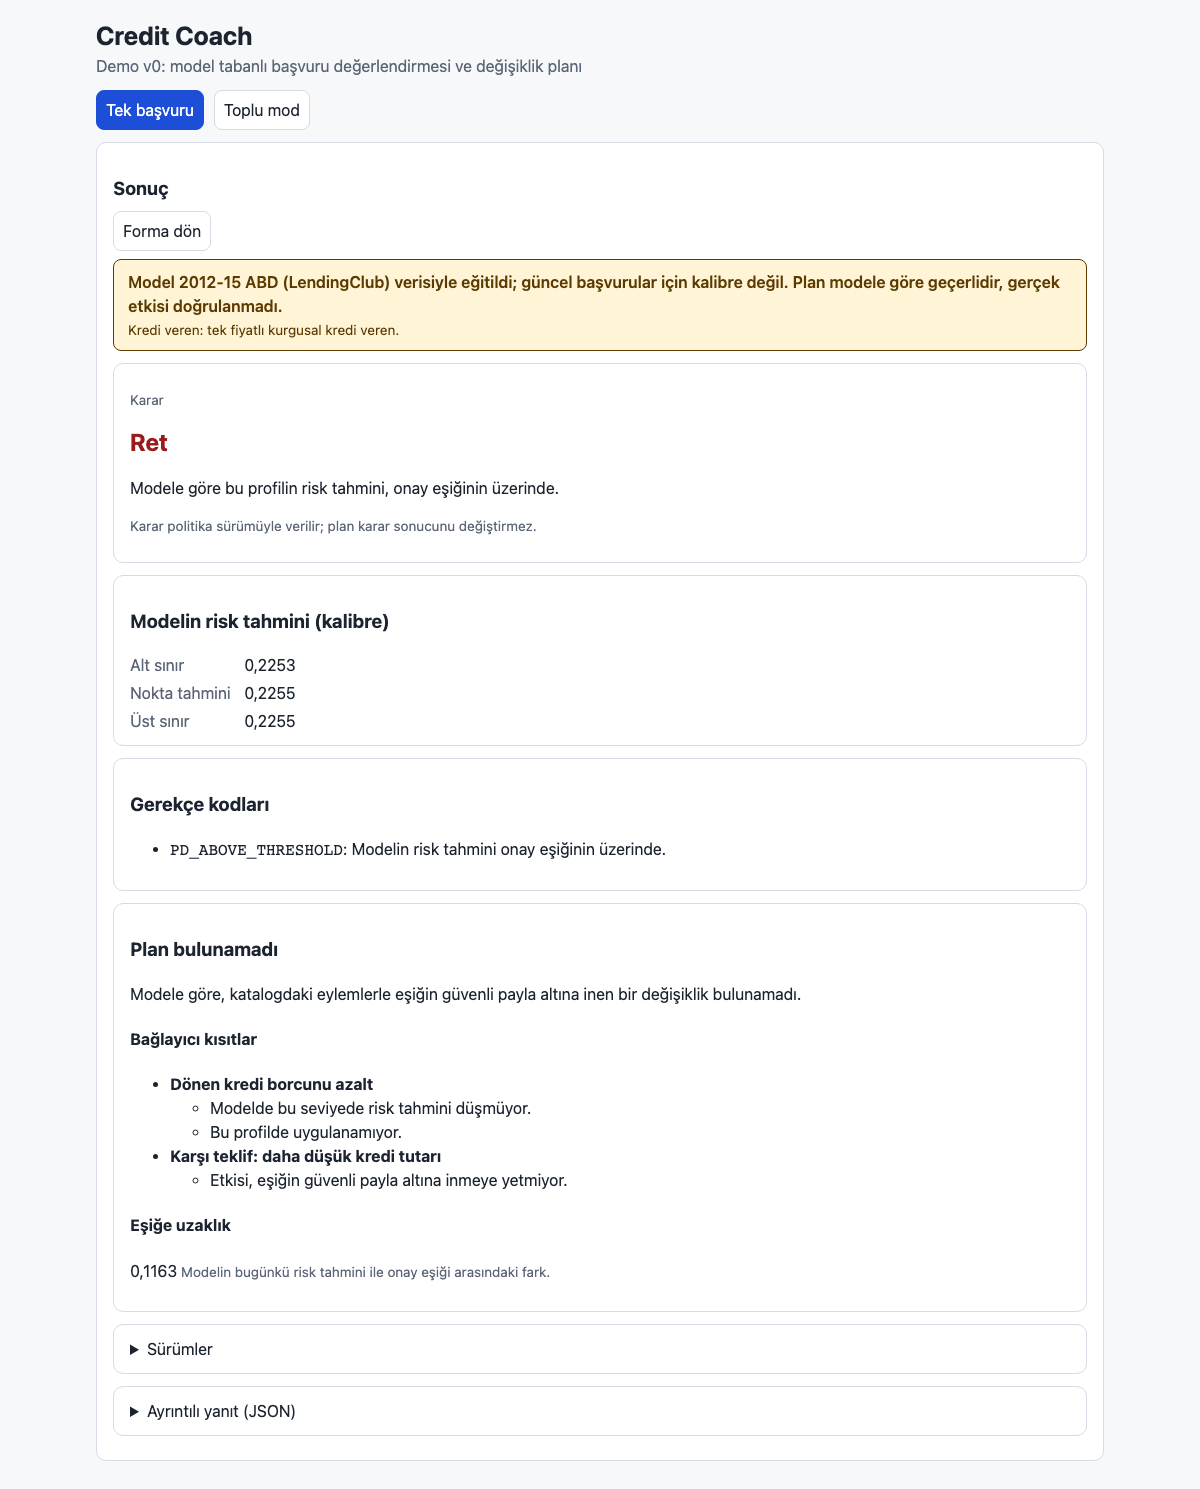
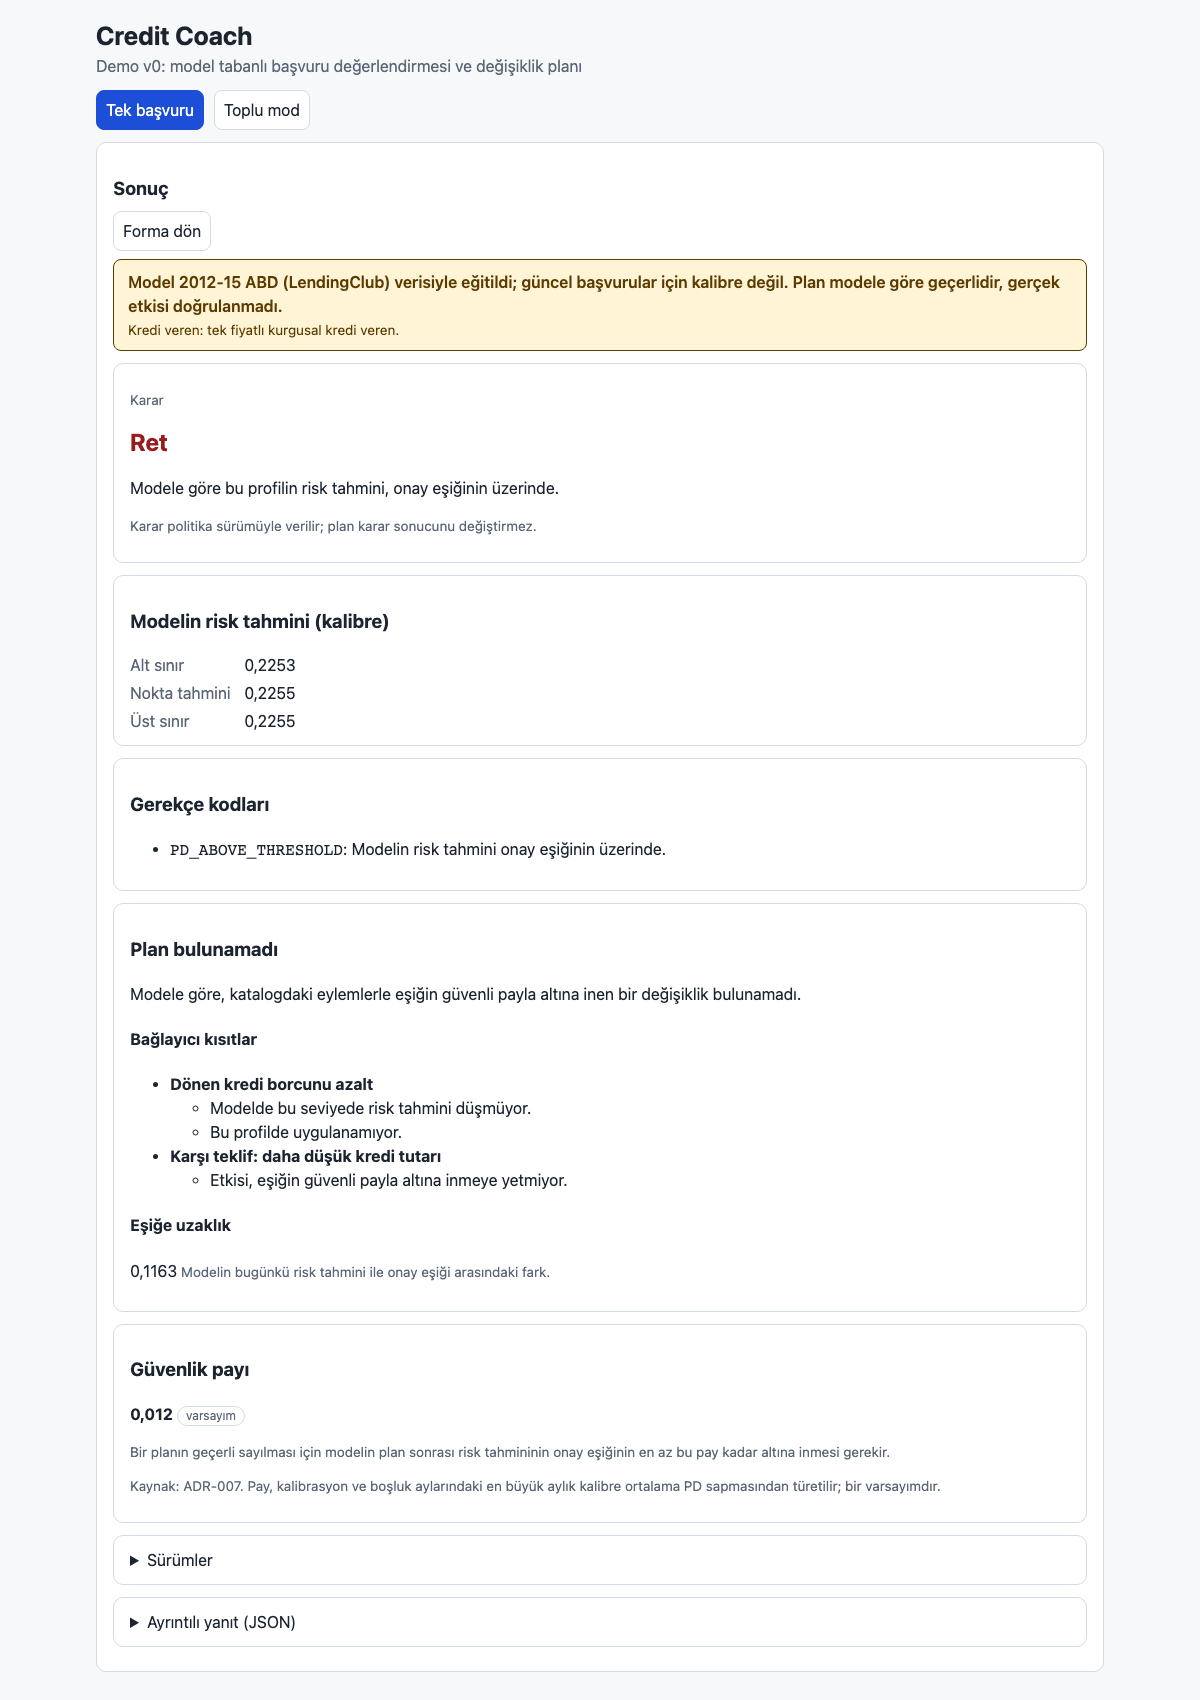
feat(ui): safety margin (value, 'varsayım' label, source ADR-007) on the result page (plan / no-plan pages) and in the batch summary; texts, tests, Playwright smoke, screenshots
The UI shows the API value as returned and computes nothing; the value is not typed into texts.json
(tested). demo_target_segment.md visibility rows regenerated from the live files.

Changed region(s): [[0.0617, 0.0, 0.925, 0.9577]]

diff --git a/frontend/e2e/smoke.spec.ts b/frontend/e2e/smoke.spec.ts
@@ -81,6 +81,34 @@ test("ret + koşullu etiket: en güçlü yolun etiketi KOSULLU, cümle ve kanıt
   await shot(page, "sonuc-ret_kosullu");
 });
 
+const fmtTr = (n: number) => new Intl.NumberFormat("tr-TR", { maximumFractionDigits: 4 }).format(n);
+
+for (const key of ["ret_plan", "ret_plan_yok"]) {
+  test(`güvenlik payı (${key}): API değeri, 'varsayım' etiketi ve kaynak ADR-007 sonuç sayfasında`, async ({ page }) => {
+    await page.goto("/");
+    const [yanit] = await Promise.all([
+      page.waitForResponse((r) => r.url().endsWith("/score")),
+      page.locator(`[data-ornek="${key}"]`).click(),
+    ]);
+    const pay = (await yanit.json()).guvenlik_payi;
+    expect(pay.etiket).toBe("varsayım");
+    expect(pay.kaynak).toBe("ADR-007");
+    const kart = page.locator("[data-guvenlik-payi]");
+    await expect(kart).toBeVisible();
+    await expect(kart.locator("[data-guvenlik-payi-deger]")).toHaveText(fmtTr(pay.deger));
+    await expect(kart).toContainText("varsayım");
+    await expect(kart).toContainText("ADR-007");
+    await expect(kart).toContainText(texts.guvenlik_payi.baslik);
+  });
+}
+
+test("güvenlik payı: onay sayfasında (plan yok/gerekmiyor) gösterilmez", async ({ page }) => {
+  await page.goto("/");
+  await page.locator('[data-ornek="onay"]').click();
+  await expect(page.locator("[data-sonuc-turu]")).toBeVisible();
+  await expect(page.locator("[data-guvenlik-payi]")).toHaveCount(0);
+});
+
 test("ret + PLAN_YOK: bağlayıcı kısıtlar ve eşiğe uzaklık var, plan/maliyet/süre yok", async ({ page }) => {
   await page.goto("/");
   await page.locator('[data-ornek="ret_plan_yok"]').click();
@@ -110,6 +138,10 @@ test("10 satırlık CSV: portföy özeti, satır tablosu, sonuç CSV indirme, uy
   await expect(page.locator('[data-ozet="n"]')).toHaveText("10");
   await seritVar(page);
   await expect(page.locator('[data-toplu="ozet"]')).toContainText(texts.toplu.kova_baslik);
+  const pay = page.locator("[data-guvenlik-payi]");
+  await expect(pay).toBeVisible();
+  await expect(pay.locator("[data-guvenlik-payi-deger]")).toHaveText(/^\d+,\d+$/);
+  await expect(pay).toContainText("ADR-007");
   const et = page.locator('[data-toplu="dayaniklilik"]');
   await expect(et).toContainText(texts.toplu_dayaniklilik.baslik);
   await expect(et).toContainText(texts.toplu_dayaniklilik.yol_baslik);

diff --git a/frontend/src/components/Sonuc.tsx b/frontend/src/components/Sonuc.tsx
@@ -1,5 +1,6 @@
 import { fmtSayi, fmtTam } from "../format";
 import texts from "../texts.json";
+import GuvenlikPayi from "./GuvenlikPayi";
 import UyariSeridi from "./UyariSeridi";
 import type { Alan, OuterStatus, PlanVar, PlanYok, PublicReasonCode, ScoreResponse, YolPlan } from "../types";
 
@@ -235,6 +236,9 @@ export default function Sonuc({ r }: { r: ScoreResponse }) {
           <Gerekceler kodlar={k.gerekce_kodlari} />
           {k.plan.durum === "PLAN" && <PlanBolumu plan={k.plan as PlanVar} />}
           {k.plan.durum === "PLAN_YOK" && <PlanYokBolumu plan={k.plan as PlanYok} />}
+          {(k.plan.durum === "PLAN" || k.plan.durum === "PLAN_YOK") && (
+            <GuvenlikPayi pay={r.guvenlik_payi} />
+          )}
           {k.plan.durum === "PLAN_GEREKSIZ" && (
             <section data-plan="PLAN_GEREKSIZ">
               <p>{texts.plan.gereksiz}</p>

diff --git a/frontend/src/components/GuvenlikPayi.tsx b/frontend/src/components/GuvenlikPayi.tsx
@@ -1,0 +1,22 @@
+import { fmtSayi } from "../format";
+import texts from "../texts.json";
+import type { components } from "../api/schema";
+
+type Pay = components["schemas"]["GuvenlikPayi"];
+
+/** Safety margin as returned by the API (value, "varsayım" label, source): shown, never computed. */
+export default function GuvenlikPayi({ pay }: { pay: Pay }) {
+  return (
+    <div className="karti" data-guvenlik-payi>
+      <h3>{texts.guvenlik_payi.baslik}</h3>
+      <p>
+        <strong data-guvenlik-payi-deger>{fmtSayi(pay.deger)}</strong>{" "}
+        <span className="etiket">{pay.etiket}</span>
+      </p>
+      <p className="not">{texts.guvenlik_payi.aciklama}</p>
+      <p className="not">
+        {texts.guvenlik_payi.kaynak}: {pay.kaynak}. {texts.guvenlik_payi.turetme}
+      </p>
+    </div>
+  );
+}

diff --git a/frontend/src/components/Toplu.tsx b/frontend/src/components/Toplu.tsx
@@ -4,6 +4,7 @@ import { sonucCsv } from "../csv";
 import { fmtTam, fmtYuzde } from "../format";
 import texts from "../texts.json";
 import type { BatchResponse } from "../types";
+import GuvenlikPayi from "./GuvenlikPayi";
 import UyariSeridi from "./UyariSeridi";
 
 const dagilim: Record<string, string> = texts.dagilim;
@@ -193,6 +194,7 @@ export default function Toplu() {
         <>
           <UyariSeridi />
           <Ozet o={sonuc.ozet} />
+          <GuvenlikPayi pay={sonuc.guvenlik_payi} />
           <section data-toplu="satirlar">
             <h2>{texts.toplu.satirlar_baslik}</h2>
             <div className="satir">

diff --git a/backend/src/credit_coach/target_segment.py b/backend/src/credit_coach/target_segment.py
@@ -124,7 +124,7 @@ def delta_facts() -> list[str]:
     return [
         "| öğe | değer / durum |",
         "|---|---|",
-        f"| Varsayılan δ | {kat.delta:g} (etiket: {kat.raw['delta']['etiket']}) |",
+        f"| Varsayılan δ | {kat.delta:g} (etiket: {str(kat.raw['delta']['etiket']).replace('|', chr(92) + '|')}) |",
         "| Tanımlandığı yer | `configs/catalog/demo_v0.yaml`, `delta.deger`; `bundle.lock.json` bu dosyanın hash'ini taşır; türetme kuralı `docs/adr/007-safety-margin.md` |",
         "| API'nin kullandığı değer | `/score` ve `/batch`, `sec_from_scores` çağrısına δ vermez; motor katalogdaki varsayılanı kullanır (`recourse.sec`, `delta=None`) |",
         f"| API yanıtında görünür mü | {api_gorunur}; ayrıca dolaylı iz: `surumler.katalog_sha256` |",

diff --git a/backend/tests/test_ui_texts.py b/backend/tests/test_ui_texts.py
@@ -123,3 +123,15 @@ def test_sufficiency_sentence_is_the_agreed_wording_with_one_placeholder():
         "Bu planın yeterli olması için modelin öngördüğü etkinin en az %{yuzde} "
         "kadarının gerçekleşmesi gerekir."
     )
+
+
+def test_safety_margin_texts_exist_and_do_not_hardcode_the_value():
+    from credit_coach.recourse import load_demo_catalog
+    from credit_coach.report_deltas import fmt
+
+    assert set(TEXTS["guvenlik_payi"]) == {"baslik", "aciklama", "kaynak", "turetme"}
+    assert "varsayımdır" in TEXTS["guvenlik_payi"]["turetme"]
+    delta = load_demo_catalog().delta
+    blob = json.dumps(TEXTS, ensure_ascii=False)
+    # the UI shows the API's value; the number must not be typed into the texts
+    assert fmt(delta) not in blob and f"{delta:g}" not in blob

diff --git a/backend/tests/test_target_segment.py b/backend/tests/test_target_segment.py
@@ -53,3 +53,9 @@ def test_missing_raw_data_gives_a_clear_error(monkeypatch, tmp_path, capsys):
     assert "Ham veri bulunamadı" in capsys.readouterr().err
     assert not (tmp_path / "r.md").exists()
     assert json.loads((ROOT / "configs" / "forbidden_phrases.json").read_text())["ifadeler"]
+
+
+def test_facts_table_cells_do_not_contain_unescaped_pipes():
+    for row in delta_facts()[2:]:
+        # a markdown table row has exactly 3 unescaped pipes (2 columns)
+        assert len(row.replace("\\|", "").split("|")) == 4, row

diff --git a/docs/demo_target_segment.md b/docs/demo_target_segment.md
@@ -67,14 +67,14 @@ Kapsam: kalibrasyon dilimi (2015-03..06) ve boşluk ayları (2015-01, 02, 07, 08
 
 | öğe | değer / durum |
 |---|---|
-| Varsayılan δ | 0.012 (etiket: varsayım: ADR-007 kuralıyla türetildi (kalibrasyon ve boşluk aylarında en büyük aylık |kalibre ortalama PD − gözlenen oran| = 0,0118, 0,001'e yukarı yuvarlandı); dönem kayması ve model belirsizliği payı; Venn-Abers aralığı değil) |
-| Tanımlandığı yer | `configs/catalog/demo_v0.yaml`, `delta.deger`; `bundle.lock.json` bu dosyanın hash'ini taşır |
+| Varsayılan δ | 0.012 (etiket: varsayım: ADR-007 kuralıyla türetildi (kalibrasyon ve boşluk aylarında en büyük aylık \|kalibre ortalama PD − gözlenen oran\| = 0,0118, 0,001'e yukarı yuvarlandı); dönem kayması ve model belirsizliği payı; Venn-Abers aralığı değil) |
+| Tanımlandığı yer | `configs/catalog/demo_v0.yaml`, `delta.deger`; `bundle.lock.json` bu dosyanın hash'ini taşır; türetme kuralı `docs/adr/007-safety-margin.md` |
 | API'nin kullandığı değer | `/score` ve `/batch`, `sec_from_scores` çağrısına δ vermez; motor katalogdaki varsayılanı kullanır (`recourse.sec`, `delta=None`) |
-| API yanıtında görünür mü | hayır (yanıt ve istek şemasında δ alanı yok); dolaylı iz: `surumler.katalog_sha256` |
-| Arayüzde görünür mü | hayır (arayüz δ değerini göstermez; metinlerde yalnızca "güvenli payla" ifadesi geçer) |
+| API yanıtında görünür mü | evet: `guvenlik_payi` alanı (değer, "varsayım" etiketi, kaynak ADR-007); ayrıca dolaylı iz: `surumler.katalog_sha256` |
+| Arayüzde görünür mü | evet: sonuç sayfası ve toplu özet (API değeri olduğu gibi gösterilir, arayüz hesaplamaz) |
 | Bu raporun sütunları | δ = 0 (band içi: etkin kesim eşik − band), δ = 0,012 (demo varsayılanı), δ = 0,03 |
 
 > **Bu tablo ne demek:** API ve arayüzün plan ararken hangi δ'yı kullandığı ve bu değerin nerede görünür olduğu; değerler canlı dosyalardan okundu.
 
-> **Ne DEMEK DEĞİL:** δ ölçülmüş bir büyüklük değil, varsayımdır ve değiştirilmedi; varsayılan δ bu raporda ayrı bir sütun olarak yer alır.
+> **Ne DEMEK DEĞİL:** δ ölçülmüş bir kapsama değil, ADR-007 kuralıyla türetilen bir varsayımdır; varsayılan δ bu raporda ayrı bir sütun olarak yer alır.
 
